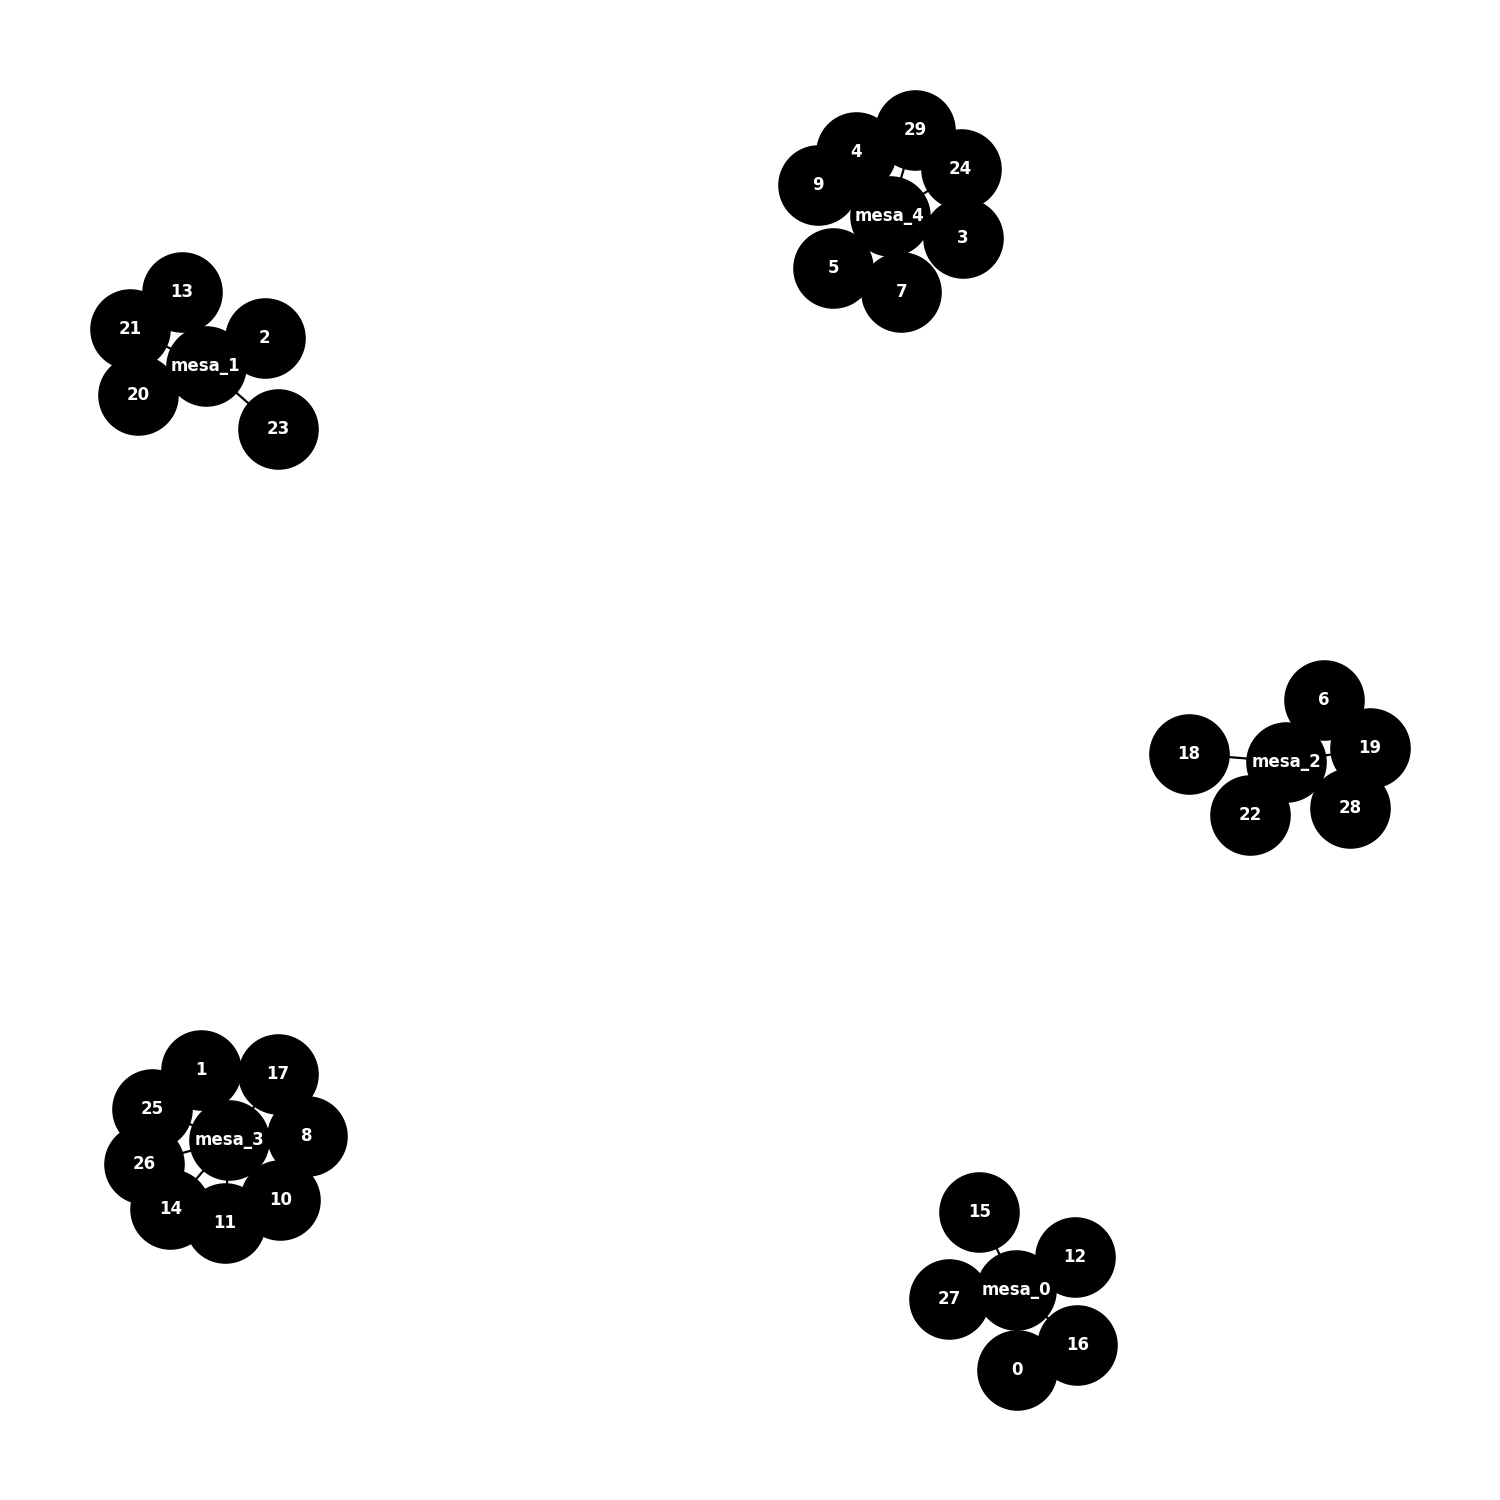
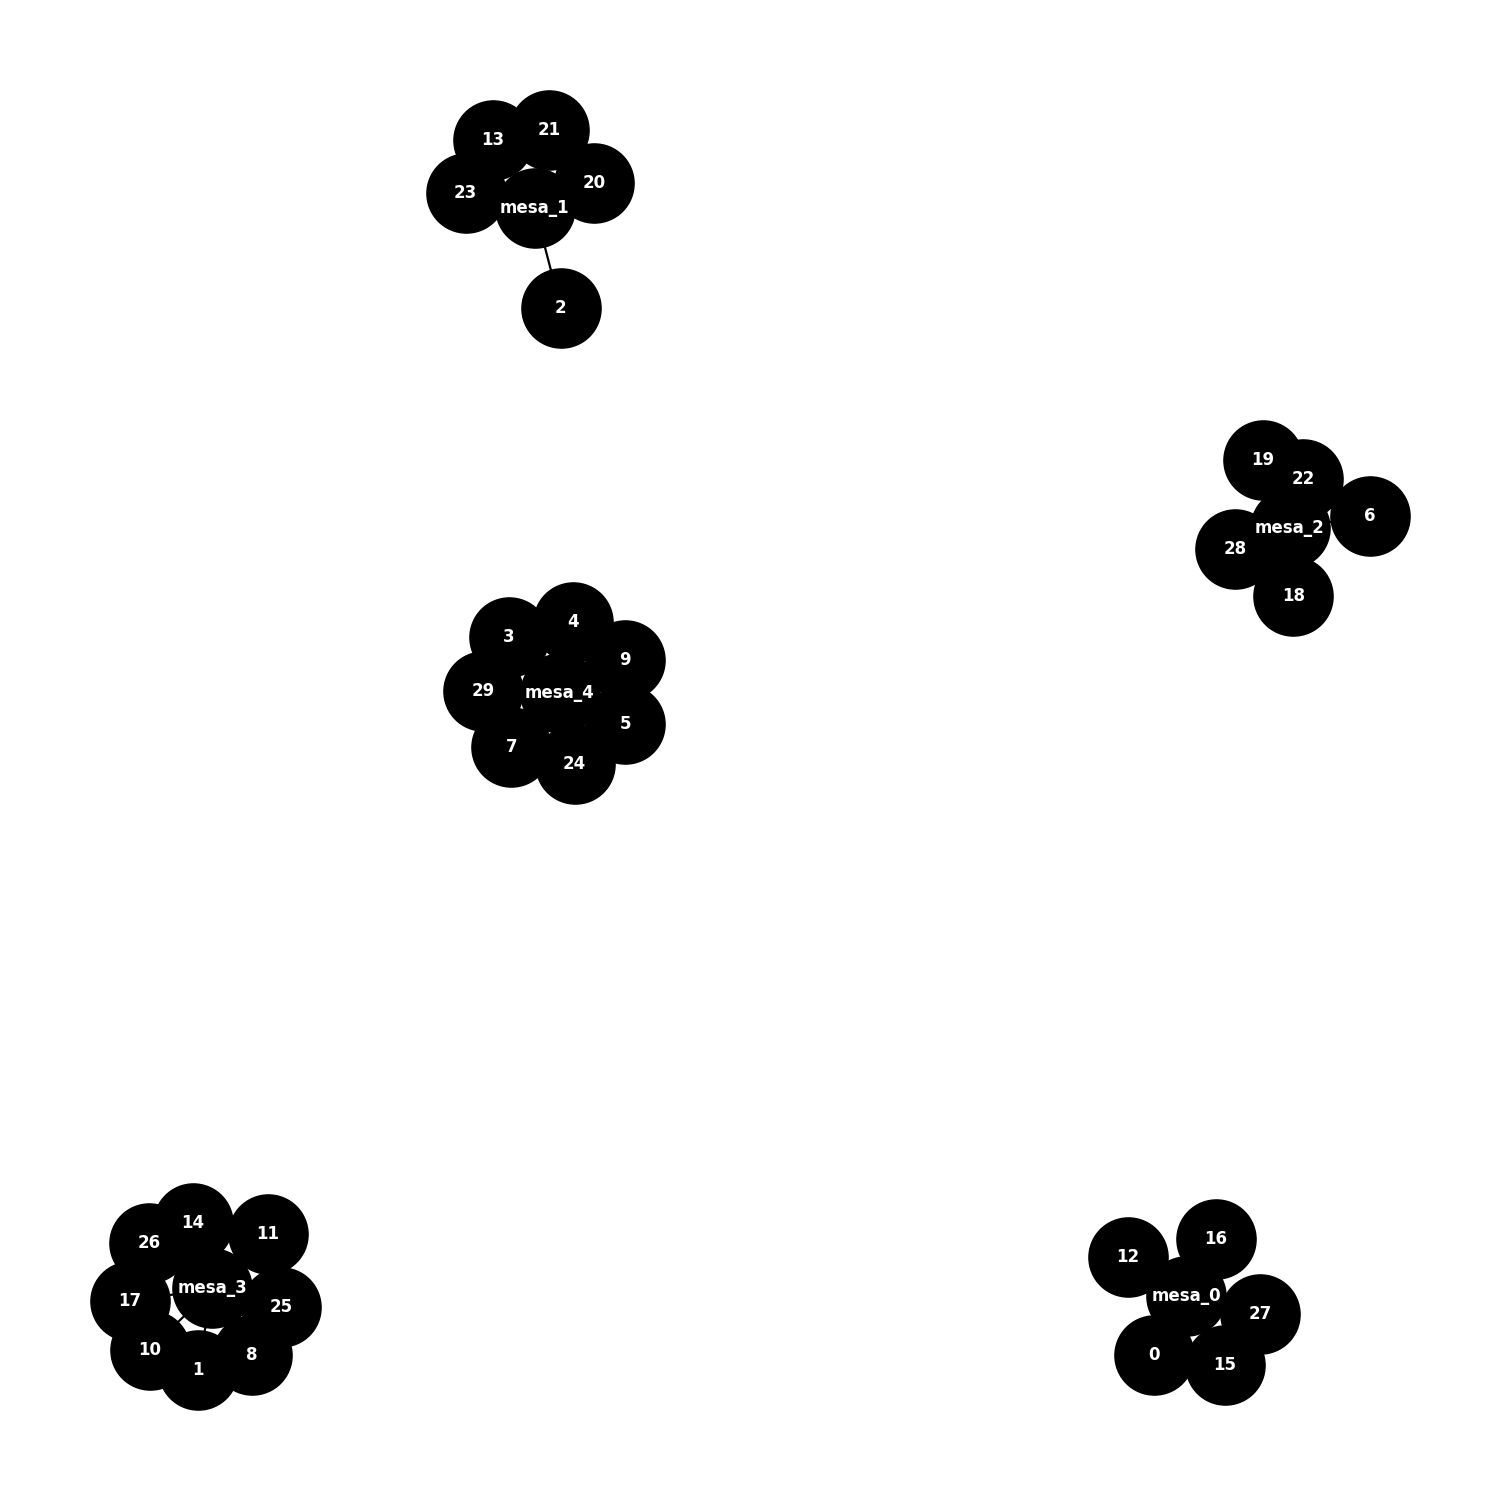
adicionando mesa furada

diff --git a/src/function_movimento_vizinhanca.py b/src/function_movimento_vizinhanca.py
@@ -180,3 +180,57 @@ def Reinsertion (grafo,matrix_afinidade):
   else:
     return copia.copy()
 
+
+
+def Mesa_furada(grafo,ja_sentou,matrix_afinidade,quant_convidados):
+  copia_sentados = ja_sentou.copy()
+  copia = grafo.copy()
+  beneficio = solution(copia,matrix_afinidade)
+  for i in list(copia.nodes()):
+    em_pe = nodes_edg(i,copia)
+    copia.remove_node(i)
+    copia.add_node(i)
+
+    for j in em_pe:
+      copia_sentados.pop(copia_sentados.index(j))
+
+    mais_afim = -999
+    indice_maior = []
+    indice_maior_local = []
+    for k in em_pe:
+      for j in em_pe:
+        if (k==j):
+          continue
+        if (matrix_afinidade[k][j] > mais_afim):
+          mais_afim = matrix_afinidade[k][j]
+          indice_maior = [k,j]
+
+    copia.add_edge(i,indice_maior[0])
+    copia.add_edge(i,indice_maior[1])
+
+    copia_sentados.append(indice_maior[0])
+    copia_sentados.append(indice_maior[1])
+    
+    while(len(copia_sentados)<quant_convidados):
+      mais_afim = -9999
+      for i in em_pe:
+        if (i in copia_sentados):
+          continue
+        for j in list(copia.nodes()):
+          if (not isinstance(j,str)):
+            break
+          afinidade_na_mesa = afin_mesa_local(i,nodes_edg(j,copia),matrix_afinidade)
+          if (afinidade_na_mesa > mais_afim):
+            mais_afim = afinidade_na_mesa
+            indice_maior_local = [i,j]
+
+        copia.add_edge(indice_maior_local[1],indice_maior_local[0])
+        copia_sentados.append(indice_maior_local[0])
+
+   
+    
+    if (solution(copia,matrix_afinidade) > beneficio):
+      return copia.copy()
+    else:
+      return grafo.copy()
+      

diff --git a/src/meta_heuristica.py b/src/meta_heuristica.py
@@ -31,7 +31,7 @@ def Perturbacao(grafo,nivel = 1):
 
 
 
-def ILS (execucoes,vnd_teste,matrix_afinidade):
+def ILS (execucoes,vnd_teste,matrix_afinidade,ja_sentou,quant_convidados):
   copia_vnd_teste = vnd_teste.copy()
   numero_melhoras = 100
 
@@ -42,8 +42,9 @@ def ILS (execucoes,vnd_teste,matrix_afinidade):
     copia_vnd_teste = vnd_teste.copy()
     beneficio = solution(copia_vnd_teste,matrix_afinidade)
     while(numero_melhoras > 0):
-      teste = Perturbacao(copia_vnd_teste,5)
-      teste2 = VND (teste,matrix_afinidade)
+      teste = Perturbacao(copia_vnd_teste,2)
+      teste2 = VND (teste,matrix_afinidade, ja_sentou,quant_convidados)
+
       if(solution(teste2,matrix_afinidade)>beneficio):
         beneficio = solution(teste2,matrix_afinidade)
         copia_vnd_teste = teste2.copy()

diff --git a/src/main.py b/src/main.py
@@ -86,7 +86,7 @@ for i in instancias:
 
   #INICIO DO VND
   start_time_vnd = time.time()
-  solucao_final_VND = VND(mesa,matrix_afinidade)
+  solucao_final_VND = VND(mesa,matrix_afinidade,ja_sentou,quant_convidados)
   end_time_vnd = time.time()
 
   vnd_List.append(solution(solucao_final_VND,matrix_afinidade))
@@ -98,7 +98,7 @@ for i in instancias:
 
   #INICIO META_HEURISTICA
   start_time_ils = time.time()
-  result_ils = ILS(3,solucao_final_VND,matrix_afinidade)
+  result_ils = ILS(3,solucao_final_VND,matrix_afinidade,ja_sentou,quant_convidados)
   end_time_ils = time.time()
 
   ils_List.append(solution(result_ils,matrix_afinidade))

diff --git a/src/vnd.py b/src/vnd.py
@@ -1,15 +1,16 @@
 from function_movimento_vizinhanca import *
 from function_tratamentos import *
 
-def VND (mesa,matrix_afinidade):
-  r = 2
+def VND (mesa,matrix_afinidade,ja_sentou,quant_convidados):
+  r = 3
   k = 1
   while (k<=r):
     if (k == 1):
       copia_VND = Reinsertion(mesa,matrix_afinidade)
     elif (k==2):
       copia_VND = swap(mesa,matrix_afinidade)
-
+    elif (k==3):
+      copia_VND = Mesa_furada(mesa,ja_sentou,matrix_afinidade,quant_convidados)
 
 
     if (solution(copia_VND,matrix_afinidade)>solution(mesa,matrix_afinidade)):
